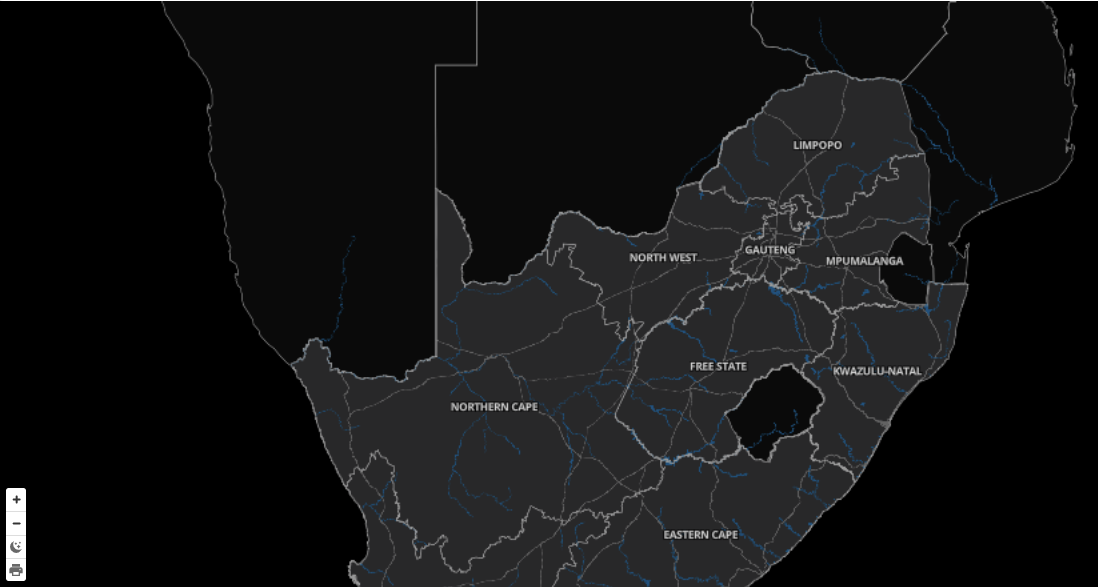
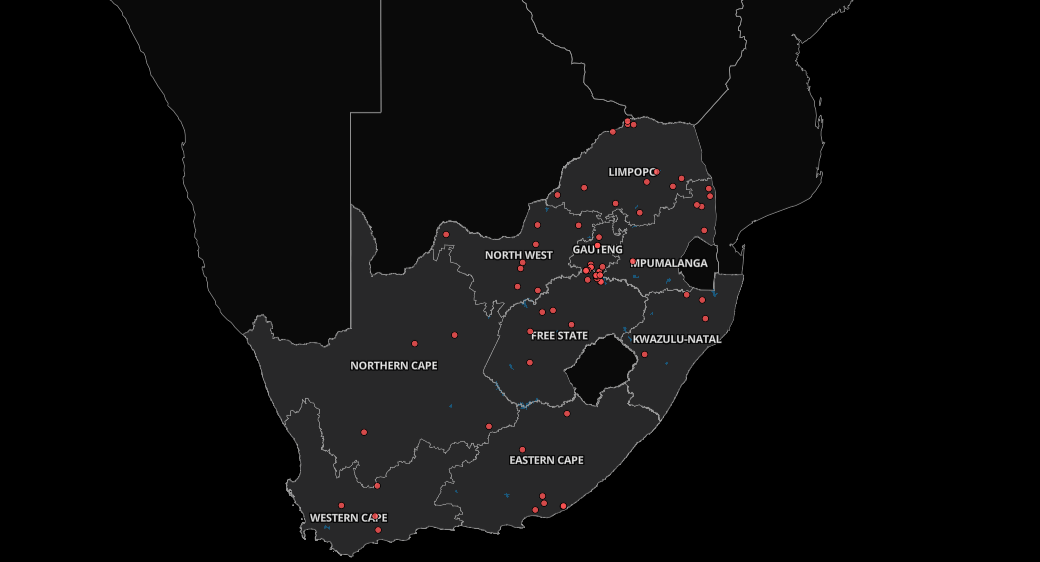
Added more content in map doc

diff --git a/docs/src/user/manual/explore/map.md b/docs/src/user/manual/explore/map.md
@@ -21,11 +21,26 @@ This documentation outlines the functionalities available in the map view, inclu
 
 1. **Map**: The `Map` tab.
 
-2. **Zooming In Icon**: The zooming-in icon is represented by a plus sign (+). Click on this icon to zoom in on the map, making features and details appear larger and more visible.
+2. **Question Mark Icon**: Click on the `Question Mark Icon` to know the valuable insights into optimising the use of the Map page. Explore the helpful tips and guidelines provided in this sidebar to enhance the efficiency in navigating and utilising the map features. Click on the `visit our Documentation` link to visit the documentation
+    ![Side Bar](./img/map-4.png)
 
-3. **Zooming Out Icon**: The zooming out icon is represented by a minus sign (-). Click on this icon to zoom out on the map, reducing the size of the displayed area and providing a broader view.
+3. **Dots**: Upon landing, users are greeted with a visual representation of property locations in the form of dots, providing an immediate overview of the geographical distribution of properties (unless the user is designated as a data consumer).
 
-4. **Toggle Between Dark and Light Mode**: The map view offers the option to toggle between dark and light modes, enhancing the viewing experience based on the user's preference.
+4. **Zooming In Icon**: The zooming-in icon is represented by a plus sign (+). Click on this icon to zoom in on the map, making features and details appear larger and more visible.
+
+5. **Zooming Out Icon**: The zooming-out icon is represented by a minus sign (-). Click on this icon to zoom out on the map, reducing the size of the displayed area and providing a broader view.
+
+6.  **Compass Icon**: The `Compass Icon` serves as a visual guide within the map view, enhancing the user's ability to explore a 3D representation of the environment. Represented by a compass symbol, this icon provides users with a quick reference to the cardinal directions, facilitating orientation while navigating the 3D map. The Compass Icon dynamically adjusts its orientation based on the user's movements, consistently pointing toward Geographic North. Users can interact with the icon to reset the map orientation to its default north-facing position.
+
+    ![3D view](./img/map-7.png)
+
+    - **Species Population Choropleth Map on Provincial Level**: When a user selects a species, the map automatically changes to a choropleth map showing the population of the species for the year, displaying it on a provincial level.
+
+    - **Zooming In to Property Level**: As the user zooms in, the choropleth map changes to a property level, providing more detailed insights into the population distribution.
+
+    - **Switch Between 3D and 2D View**: Users can seamlessly switch between 3D and 2D views, enhancing their exploration experience.
+
+7. **Toggle Between Dark and Light Mode**: The map view offers the option to toggle between dark and light modes, enhancing the viewing experience based on the user's preference.
 
     **Dark Mode**
 
@@ -39,7 +54,18 @@ This documentation outlines the functionalities available in the map view, inclu
 
     * **Light Mode (Sun Icon):** Click on the sun icon to switch to light mode, offering a brighter color scheme for daytime or well-lit environments.
 
-5. **Printing Out the Current Map Preview**: The print icon allows the user to generate a physical or digital copy of the current map preview. When clicked, this icon initiates the printing process, enabling the user to obtain a hard copy or a digital image of the map for reference or sharing.
+8. **Printing Out the Current Map Preview**: The print icon allows the user to generate a physical or digital copy of the current map preview. When clicked, this icon initiates the printing process, enabling the user to obtain a hard copy or a digital image of the map for reference or sharing.
+
+### Choropleth Maps
+
+- **Species Population Range Indicator**: The chart uses a gradient of colors to smoothly represent the varying population densities. Users can quickly assess the concentration of species in different regions based on the color intensity. Users can use this chart to analyse and interpret the population distribution of selected species across different geographical areas, distinguishing between low, moderate, and high population densities.
+
+    ![Population Range](./img/map-5.png)
+
+- **Highlighting The Most Populated Region**: The map dynamically identifies and highlights the region with the population density for the selected species. This region is visually emphasised to draw the user's attention to the area with the most significant concentration of the chosen species.
+
+    ![Highlighted Regions](./img/map-6.png)
+
 
 - **Species Population Range Indicator**: The chart uses a gradient of colors to smoothly represent the varying population densities. Users can quickly assess the concentration of species in different regions based on the color intensity. Users can use this chart to analyse and interpret the population distribution of selected species across different geographical areas, distinguishing between low, moderate, and high population densities.
 
